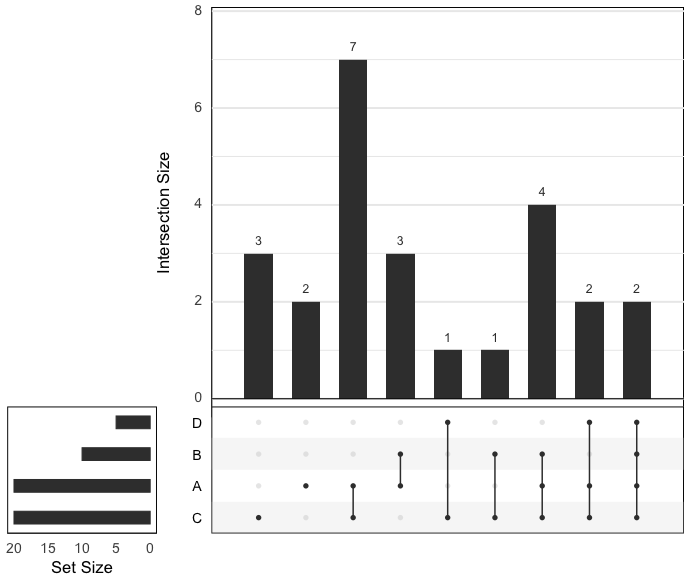
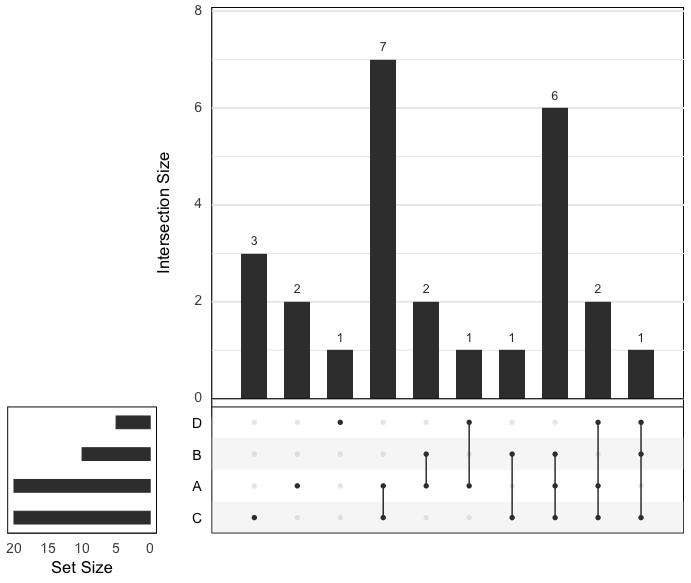
update slides

diff --git a/day2-slides.html b/day2-slides.html
@@ -26,7 +26,7 @@ class: center, middle, inverse, title-slide
 
 class: center, middle
 
-background-image: url(grid.png)
+background-image: url(imgs/grid.png)
 background-size: cover
 
 
@@ -137,10 +137,33 @@ ggplot(df, aes(x = x, y = y)) +
 
 class: center, middle
 
-background-image: url(grid.png)
+background-image: url(imgs/grid.png)
 background-size: cover
 
 # Other R packages
+---
+### UpSetR
+
+.left-code[
+
+``` r
+library(UpSetR)
+
+up_list &lt;- list(A = sample(letters, 20), 
+                B = sample(letters, 10), 
+                C = sample(letters, 20), 
+                D = sample(letters, 5))
+
+upset(fromList(up_list), text.scale = 2)
+```
+]
+.right-plot[
+&lt;img src="day2-slides_files/figure-html/UpSetR-out-1.png" width="100%" /&gt;
+]
+
+.doc-link[
+[*UpSetR documentation*](https://github.com/hms-dbmi/UpSetR)
+]
 ---
 ### ComplexHeatmap
 
@@ -163,7 +186,9 @@ Heatmap(mat)
 .right-plot[
 &lt;img src="day2-slides_files/figure-html/ComplexHeatmap-out-1.png" width="100%" /&gt;
 ]
-
+.doc-link[
+[*ComplexHeatmap documentation*](https://jokergoo.github.io/ComplexHeatmap-reference/book/)
+]
 ---
 ### circlize
 
@@ -183,28 +208,89 @@ chordDiagram(df)
 
 
 .right-plot[
-&lt;img src="day2-slides_files/figure-html/circlize-out-1.png" width="100%" /&gt;
+&lt;img src="day2-slides_files/figure-html/circlize1-out-1.png" width="100%" /&gt;
+]
+.doc-link[
+[*circlize documentation*](https://jokergoo.github.io/circlize_book/book/)
+]
+---
+### circlize
+
+.left-code-wide[
+
+``` r
+df &lt;- generateRandomBed(200, species = "hg19")
+
+par(cex = 1.5)
+
+circos.initializeWithIdeogram(species = "hg19")
+circos.genomicTrack(df, 
+                    panel.fun = function(region, value, ...){
+    circos.genomicPoints(region, value, ...)
+                      }
+    )
+```
+]
+
+
+.right-plot-narrow[
+&lt;img src="day2-slides_files/figure-html/circlize2-out-1.png" width="100%" /&gt;
+]
+
+.doc-link[
+[*circlize documentation*](https://jokergoo.github.io/circlize_book/book/)
+]
+---
+### karyoploteR
+
+.left-code-wide[
+
+``` r
+library(karyoploteR)
+
+df &lt;- data.frame(chr = 'chr1', 
+                 positions = runif(10, min = 0, max = 2.4e8))
+
+kp &lt;- plotKaryotype(plot.type = 2,
+                    chromosomes = c('chr1'))
+kpPlotMarkers(kp, chr = df$chr, x = df$positions,
+              labels = NA, adjust.label.position = F)
+```
+]
+
+
+
+.right-plot-narrow[
+&lt;img src="day2-slides_files/figure-html/karyoploteR-out-1.png" width="100%" /&gt;
+]
+
+.doc-link[
+[*karyoploteR documentation*](https://bernatgel.github.io/karyoploter_tutorial/)
 ]
 
 ---
-### UpSetR
+### patchwork and cowplot
 
-.left-code[
+---
+### inkscape
 
-``` r
-library(UpSetR)
+---
+### Python packages
+---
+### Other tools
+---
+class: center, middle
 
-up_list &lt;- list(A = sample(letters, 20), 
-                B = sample(letters, 10), 
-                C = sample(letters, 20), 
-                D = sample(letters, 5))
+background-image: url(imgs/grid.png)
+background-size: cover
 
-upset(fromList(up_list), text.scale = 2)
-```
-]
-.right-plot[
-&lt;img src="day2-slides_files/figure-html/UpSetR-out-1.png" width="100%" /&gt;
-]
+# Data visualisation challenge
+---
+background-image: url(imgs/challenge_paper.png)
+background-size: contain
+
+[link to paper](https://www.nature.com/articles/s43018-022-00391-0)
+
     </textarea>
 <style data-target="print-only">@media screen {.remark-slide-container{display:block;}.remark-slide-scaler{box-shadow:none;}}</style>
 <script src="https://remarkjs.com/downloads/remark-latest.min.js"></script>

diff --git a/custom.css b/custom.css
@@ -1,7 +1,7 @@
 @import url("https://fonts.googleapis.com/css?family=Poppins");
  
 .title-slide {
-    background-image: url(data_viz_cover.png);
+    background-image: url(imgs/data_viz_cover.png);
     background-size: cover;
     color: #b736be !important;
   }
@@ -19,6 +19,18 @@
   }
   .right-plot {
     width: 60%;
+    float: right;
+    padding-left: 1%;
+  }
+
+  .left-code-wide {
+    color: #777;
+    width: 48%;
+    height: 92%;
+    float: left;
+  }
+  .right-plot-narrow {
+    width: 50%;
     float: right;
     padding-left: 1%;
   }
@@ -48,5 +60,16 @@ h3 {
 } 
 
 .remark-code {
-    font-size: 14px;
+    font-size: 13px;
+}
+
+.doc-link a {
+  color: #96cbfe;
+  font-size: 13px;
+  text-decoration: underline;
+  float: right;
+}
+
+.remark-slide-number {
+  font-size: 0pt;
 }
